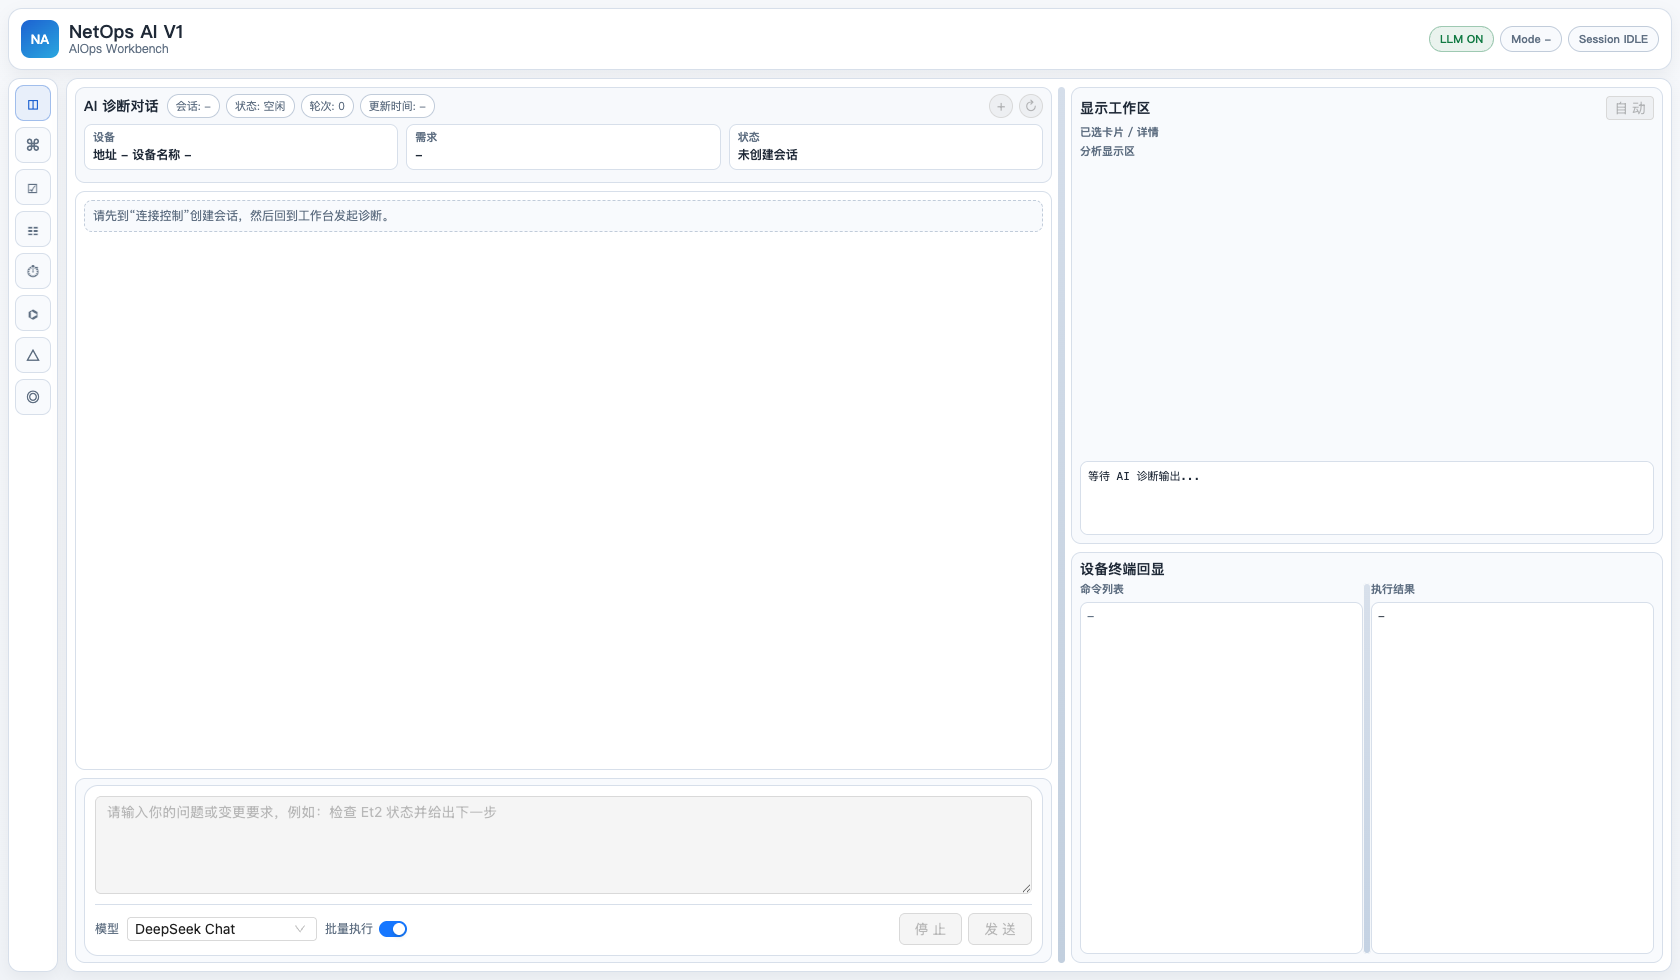
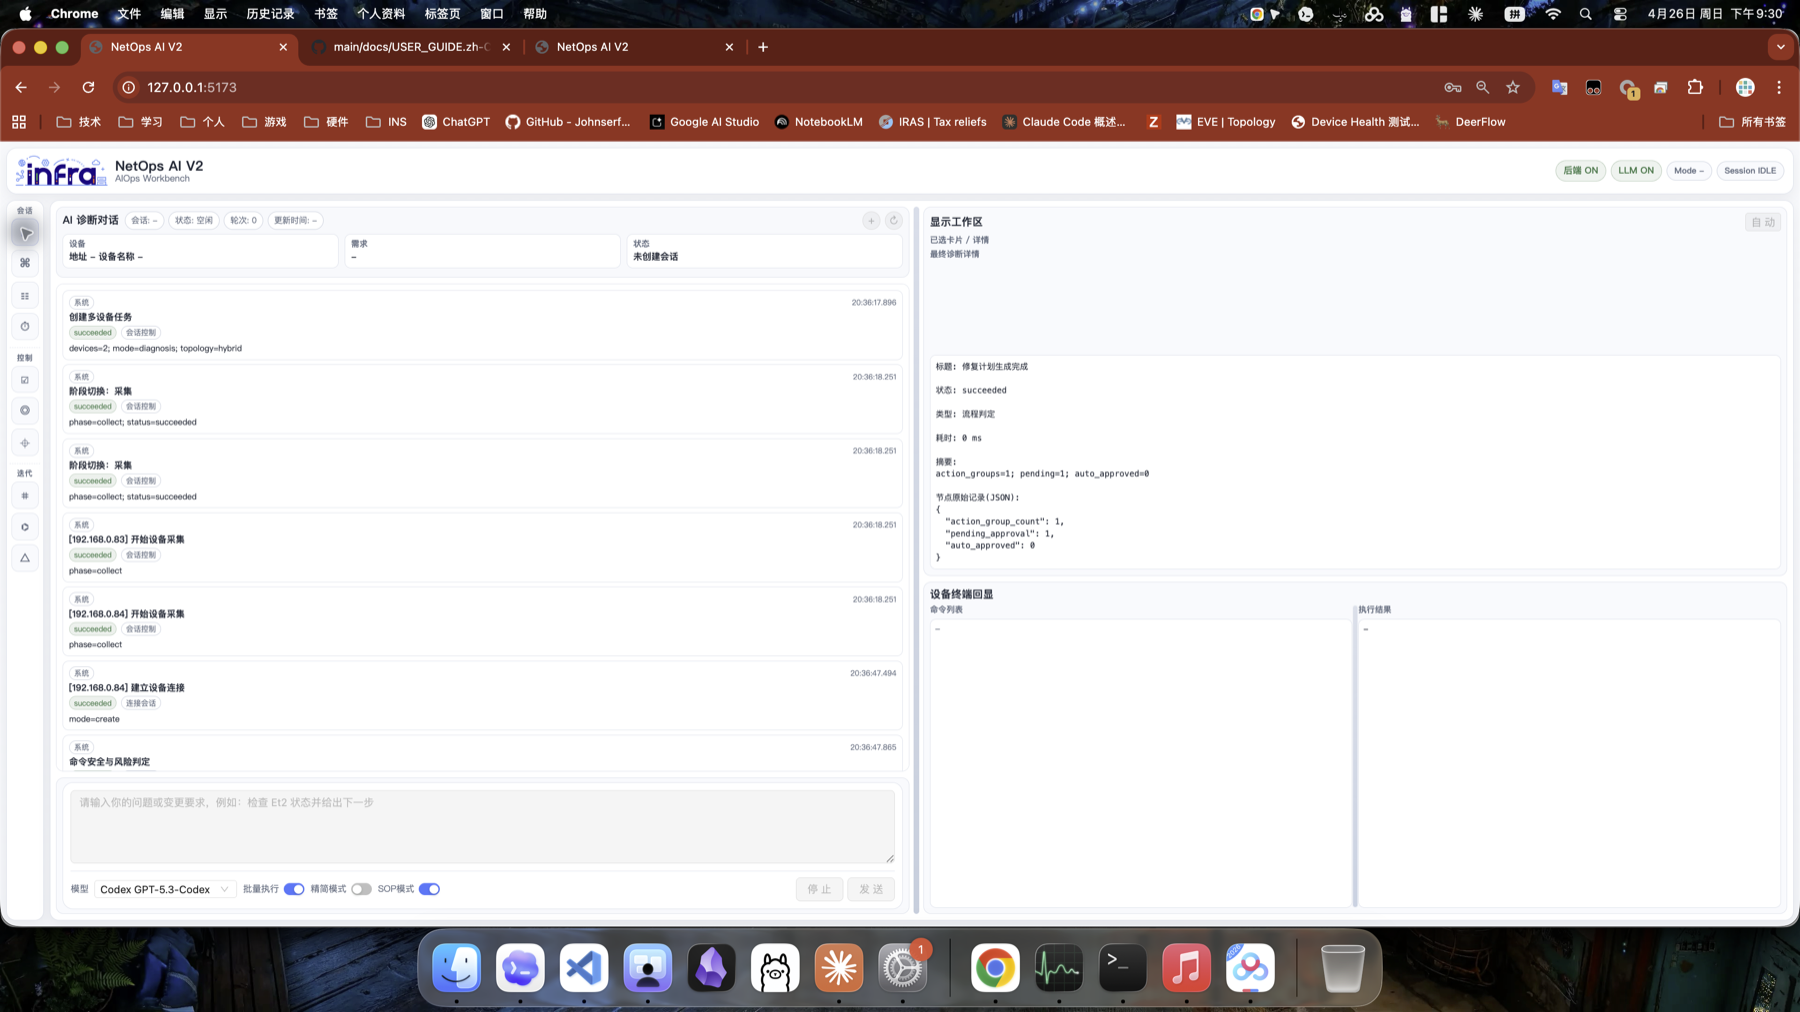
Align the user guide with the V2 workbench
The local workbench has moved beyond the old V1 walkthrough, so this records the current UI entry points, continuation behavior, approval flow, trace review, SOP boundaries, and third-party key guidance with fresh screenshots. The third-party key screenshot is intentionally redacted before publishing.

Constraint: User requested publishing this guide to jluzhangwei/main under AIOPS/netops-ai-v2-20260426

Rejected: Text-only update | the old screenshots described a different UI and would keep the guide misleading

Confidence: high

Scope-risk: narrow

Directive: Keep public guide screenshots redacted, especially third-party key and credential examples

Tested: git diff --check -- netops-ai-v1/docs/USER_GUIDE.zh-CN.md

Tested: Markdown image link check reported image_links=10 missing=[]

Tested: Screenshot metadata check confirmed all guide images are PNG 1800x1012

Not-tested: GitHub rendered Markdown preview after push

diff --git a/docs/USER_GUIDE.zh-CN.md b/docs/USER_GUIDE.zh-CN.md
@@ -1,108 +1,269 @@
-# NetOps AI V1 用户说明书（图文）
+# NetOps AI V2 用户指南（中文图文版）
 
-本文面向一线运维与值班工程师，帮助你快速上手 NetOps AI V1 的日常诊断、查询和配置协作。
+本文面向一线网络运维、值班工程师和平台管理员，说明如何通过本地 Web 工作台完成设备连接、AI 诊断、追加问题、命令审批、历史复盘和第三方接入管理。
 
-## 1. 页面总览
+截图来自本机 `http://127.0.0.1:5173/` 的 NetOps AI V2 页面。截图中的设备地址、会话 ID、问题文本仅作为本地测试样例；公开发布文档前，请确认截图中没有真实敏感信息。
 
-![工作台总览](./images/user-manual/01-workbench.png)
+## 1. 打开与登录
 
-- 左侧图标栏：页面导航。
-- 中间区域：AI 诊断对话、执行卡片、用户输入。
-- 右侧区域：命令回显、结果细节。
+1. 启动后端和前端服务。
+2. 在浏览器打开 `http://127.0.0.1:5173/`。
+3. 页面右上角应显示 `后端 ON` 和 `LLM ON`。
+4. 当前本地工作台没有单独的账号登录页，内置诊断工作台和会话历史通过受信任 UI 通道访问统一 Run API。
+5. “第三方 Key 服务”只用于给外部系统、脚本或测试客户端创建 API Key，不是本地工作台登录入口。
 
-## 2. 首次使用（推荐顺序）
+![诊断工作台总览](./images/user-manual/01-workbench.png)
 
-1. 进入“连接控制”，填写设备地址、用户名、密码。
-2. 选择任务模式：诊断排障 / 状态查询 / 配置变更。
-3. 选择自动化等级：极低风险 / 中风险可执行 / 高风险可执行。
-4. 返回“诊断工作台”，输入需求并发送。
-5. 在执行卡片与右侧回显区查看全过程证据。
+页面顶部状态区用于确认平台是否可用：
 
-## 3. 关键页面说明
+- `后端 ON`：前端可以访问后端 API。
+- `LLM ON`：当前模型可用。
+- `当前模型`：展示当前生效的 provider 和模型。
+- `Mode / Session`：展示当前任务模式和会话状态。
 
-### 3.1 连接控制
+左侧导航分为三组：
+
+- `会话`：诊断工作台、连接控制、会话历史、流程追踪。
+- `控制`：命令执行控制、AI 设置、第三方 Key 服务。
+- `迭代`：SOP 档案库、命令执行纠正、Lab 对抗。
+
+## 2. 推荐操作流程
+
+1. 进入“连接控制”，选择自动化等级和任务模式。
+2. 填写设备地址、用户名、密码；一个地址表示单设备，多地址表示多设备协同。
+3. 点击“创建会话”。
+4. 回到“诊断工作台”，输入当前问题或变更需求。
+5. 观察 AI 对话、执行卡片、显示工作区和设备终端回显。
+6. 如果 AI 需要执行配置变更，先查看计划和待审批命令，再决定是否批准。
+7. 诊断完成后，如果要继续追问，直接在同一个工作台会话继续输入新问题，不要重新创建任务。
+8. 需要复盘时，进入“流程追踪”或“会话历史”查看证据链、命令、耗时和最终结论。
+
+## 3. 连接控制
 
 ![连接控制](./images/user-manual/02-control.png)
 
-用途：创建会话、设置设备连接参数、选择任务模式与自动化等级。
+“连接控制”是创建单设备或多设备任务的统一入口。
 
-要点：
-- 默认建议先使用“诊断排障 + 中风险可执行”。
-- 配置变更前确认账号权限与回滚方案。
+### 3.1 自动化等级
 
-### 3.2 命令执行控制
+- `极低风险`：通常只允许只读查询，适合首次接入或高敏感环境。
+- `中风险可执行`：自动执行低/中风险命令，高风险命令需要人工确认，推荐日常排障使用。
+- `高风险可执行`：非阻断命令可自动执行，仅建议在受控实验或明确授权场景使用。
+
+### 3.2 任务模式
+
+- `状态查询`：适合询问设备状态、接口状态、路由表等只读问题。
+- `诊断排障`：默认模式，适合故障定位，AI 会基于证据逐步收敛。
+- `配置变更`：涉及修复和配置下发，系统应进入计划和审批流程。
+
+### 3.3 设备连接
+
+- 单设备：在“设备地址”填写一个 IP 或主机名。
+- 多设备：用逗号、空格或换行输入多个地址。
+- 跳板机：需要通过堡垒机或中间机登录时再开启。
+- 创建会话后，右侧“连接状态”和“近期多设备协同”会显示当前任务状态。
+
+## 4. 诊断工作台
+
+诊断工作台是日常使用频率最高的页面。左侧是 AI 诊断对话和事件流，右侧是当前选中卡片的详情、命令列表和设备回显。
+
+### 4.1 提问方式
+
+推荐直接描述目标，不要把历史结论复制回去。例如：
+
+```text
+两台设备 LLDP 能发现对方，但是 OSPF 起不来，帮我看看配置
+```
+
+如果是追加问题，继续在同一会话输入新需求：
+
+```text
+帮我给这两个互联接口选择合适地址并完成配置，让 OSPF up 起来
+```
+
+### 4.2 追加问题的上下文规则
+
+同一会话中继续追问时，系统应保留历史事实，例如已成功采集的命令结果、设备基线、邻居关系和证据摘要；上一轮最终结论只作为历史展示，不应作为当前问题继续灌给模型。
+
+正常续问时：
+
+- `run_id/session_id` 应保持不变。
+- 当前问题应更新为最新用户输入。
+- 历史用户问题和事实证据应保留。
+- 已确认且仍有效的只读命令不应无意义重复执行。
+- 如果用户点击停止、连接失效、设备集合变化、凭据变化或会话上下文丢失，系统可能需要重新连接或重新采集事实。
+
+### 4.3 配置变更与审批
+
+当用户只是提问或要求分析时，系统应给出“查询结果”或“诊断结论”。只有在用户明确要求修复、配置、变更或执行动作，并且系统生成待审批命令后，才进入配置计划和审批链路。
+
+如果看到“待审批命令组”，请先检查：
+
+- 命令是否只作用在目标设备和目标接口上。
+- 是否有回滚方案或验证命令。
+- 是否符合当前自动化等级。
+- 是否确实是用户本轮问题要求的动作。
+
+## 5. 命令执行控制
 
 ![命令执行控制](./images/user-manual/03-command-policy.png)
 
-用途：维护命令阻断、放行与风险分级规则。
+该页面用于管理命令阻断、放行和风险分级策略。它负责“哪些命令可以被系统执行”，不负责替 AI 做诊断结论。
 
-要点：
-- 阻断规则优先级最高。
-- 未命中放行且命中高风险时，会进入确认流程。
+判定顺序：
 
-### 3.3 会话历史
+1. 先看阻断规则和硬阻断。
+2. 再按自动化等级判断是否可执行。
+3. 最后由放行规则覆盖部分确认策略。
+
+常见用途：
+
+- 禁止明显危险命令，例如重启、清空、删除、关闭关键接口。
+- 将某些命令列为高风险，要求人工确认。
+- 将环境中明确安全的只读命令加入放行规则。
+- 导出或导入 JSON 规则，方便团队统一治理。
+
+## 6. 会话历史
 
 ![会话历史](./images/user-manual/04-sessions.png)
 
-用途：回看与恢复历史会话。
+会话历史同时展示单设备会话和多设备协同任务。它用于恢复、复盘和提炼 SOP。
 
-交互：
-- 单击：选择会话并查看右侧快照。
-- 双击：进入并恢复该会话继续对话。
+关键区域：
 
-### 3.4 流程追踪
+- 左侧列表：历史任务、模式、自动化等级、设备数量、用户问题和创建时间。
+- `提取 SOP`：从历史会话中生成 SOP 草稿。
+- 右侧快照：显示设备、状态、消息数、命令数、证据数、模型记录、SOP 命中情况、用户问题和最终结论。
+
+恢复会话时，优先确认它是否仍是你要继续提问的那条 run。追加问题应继续走当前 run，不应静默新建任务。
+
+## 7. 流程追踪
 
 ![流程追踪](./images/user-manual/05-service-trace.png)
 
-用途：按步骤查看完整执行链路和耗时。
+流程追踪用于看清一次任务从用户输入到最终输出的完整链路，尤其适合排查“为什么慢”“为什么执行了某条命令”“为什么进入审批”等问题。
 
-能力：
-- 支持前序/后续跳转。
-- 支持 Play 回放，按步骤时间自动演示全过程。
-- 点击步骤后，步骤明细会自动滚动到对应行。
+你可以重点查看：
 
-### 3.5 学习规则（版本级）
+- `步骤总数` 和 `总耗时`：判断任务整体复杂度。
+- `最慢步骤`：定位慢在 LLM、设备命令还是后端处理。
+- 泳道：用户输入、上下文构建、提交给 AI、AI 反馈、规划决策、策略判定、会话控制、设备执行、总结输出。
+- 节点详情：查看某一步的摘要、耗时和原始 JSON。
+- 步骤明细：逐条查看命令执行、策略判定和模型回复。
 
-![学习规则](./images/user-manual/06-learning.png)
+当追加问题效率不好时，优先在这里确认是否重复执行了已确认命令、是否重新进入了完整采集链路、是否因为连接或上下文丢失导致重采。
 
-用途：维护失败阻断 / 替代改写规则，减少重复试错。
+## 8. 命令执行纠正
 
-要点：
-- 规则作用域为版本指纹。
-- 支持手动编辑与自动学习来源区分。
+![命令执行纠正](./images/user-manual/06-learning.png)
 
-### 3.6 AI 设置
+命令执行纠正用于维护版本级的失败阻断或替代改写规则。它属于执行前能力修正，不等同于 SOP，也不应该替代 AI 的工程判断。
+
+适用场景：
+
+- 某个厂商或版本不支持某条命令。
+- 某条命令在当前设备版本上反复失败。
+- 已知存在等价替代命令。
+
+使用原则：
+
+- 优先记录“命令兼容性”问题，不要把具体业务结论写成规则。
+- 规则应尽量绑定版本指纹，避免跨厂商、跨版本误伤。
+- 删除或停用规则前，先确认是否有历史命中记录依赖它。
+
+## 9. AI 设置
 
 ![AI 设置](./images/user-manual/07-ai-settings.png)
 
-用途：配置 API Key、模型、故障切换策略与提示词展示。
+AI 设置页面集中管理当前模型、provider、API Key 状态、自动切换和提示词策略。
 
-要点：
-- API Key 默认保存到服务器。
-- 可手动删除 Key；删除后模型不可用。
+当前页面常见字段：
 
-## 4. 标准操作流程（值班推荐）
+- `状态`：模型服务是否启用。
+- `当前厂商`：例如 Codex CLI、DeepSeek、NVIDIA。
+- `主模型` 和 `当前生效模型`：确认实际使用的模型。
+- `Codex 登录`：如果复用本机 `~/.codex/auth.json`，通常无需填写 API Key。
+- `自动切换`：模型异常时切换到候选模型。
+- `批量执行提示`：提示 AI 优先输出可批量执行的命令组。
+- `提示词与策略`：只读展示系统当前可暴露的提示词模板。
 
-1. 创建会话并验证设备可达。
-2. 在工作台输入目标（例如：检查端口/检查协议/执行修复）。
-3. 观察 AI 卡片与右侧回显，确认证据是否充分。
-4. 涉及变更时进行确认或使用自动化策略。
-5. 在流程追踪页复盘耗时和关键判定点。
-6. 在会话历史页沉淀可复用案例。
+如果 AI 不响应或模型不可用，先检查这里的状态，再去看后端日志。
 
-## 5. 常见问题
+## 10. 第三方 Key 服务
 
-- Q: 为什么有命令需要确认？
-  - A: 命令命中高风险策略或未命中放行策略时，会进入确认流程。
+![第三方 Key 服务](./images/user-manual/08-third-party-keys.png)
 
-- Q: 为什么刷新后看不到刚才会话？
-  - A: 请到“会话历史”刷新并恢复；系统已支持历史会话快照与恢复。
+第三方 Key 服务用于给外部系统、自动化脚本或测试客户端分配 API Key。完整 Key 只会在创建或轮换后展示一次。
 
-- Q: 为什么 AI 无法给出结论？
-  - A: 请先检查 AI 设置中的 API Key、模型联机状态与错误信息。
+使用建议：
 
-## 6. 发布建议（GitHub）
+- 按系统或团队分配独立 Key。
+- 使用最小权限模板，例如 viewer、operator、approver、auditor、repair_operator。
+- 正式环境建议使用固定 Key 并定期轮换。
+- 不要在截图、聊天、提交记录或公开文档中暴露完整 Key。
+- 删除、轮换或禁用 Key 会影响依赖它的第三方调用。
 
-- 将本说明保留在：`docs/USER_GUIDE.zh-CN.md`
-- 截图资源保留在：`docs/images/user-manual/`
-- 在 `README.md` 添加“用户手册”入口，方便团队快速访问。
+内置工作台不需要在这里手动配置 Key。它通过受信任 UI 通道访问统一 Run API。
+
+## 11. SOP 档案库
+
+![SOP 档案库](./images/user-manual/09-sop-library.png)
+
+SOP 档案库是旁挂知识库，不直接插入主线诊断 UI。历史会话可以手动触发“AI 提取 SOP”，草稿经人工审核发布后，才会作为 AI 的可选参考参与匹配。
+
+关键原则：
+
+- SOP 是参考，不是自动执行脚本。
+- SOP 不替代 AI 对当前证据的判断。
+- SOP 草稿需要人工审核，确认是否具备通用性。
+- 触发词、适用前提和不适用条件要写成问题类型，不要写成单次现场对象。
+- 建议最小命令组应帮助 AI 少走弯路，但不能把结论硬编码进系统。
+
+## 12. Lab 对抗
+
+![Lab 对抗](./images/user-manual/10-lab.png)
+
+Lab 对抗页面当前是预留能力，用于后续模拟故障注入、AI 对抗回放、案例晋级、评分和回滚评估。
+
+当前可把它理解为未来测试工作台的入口。正式使用前，应以“诊断工作台、流程追踪、会话历史、SOP 档案库”为主。
+
+## 13. 常见问题
+
+### Q1：为什么没有登录弹窗？
+
+当前本地 UI 是受信任工作台访问模式，没有单独账号密码登录页。只要前端能打开、右上角显示 `后端 ON` 和 `LLM ON`，就可以进入工作台。第三方 Key 页面是给外部客户端使用的，不是本地 UI 登录页。
+
+### Q2：为什么追加问题时不能新建 run？
+
+追加问题的设计目标是像和同一个网络工程师继续对话：保留历史事实和证据，更新当前问题，并让旧结论退出当前活跃态。如果新建 run，历史事实会断开，系统容易重新采集、重复命令或被旧结论带偏。
+
+### Q3：什么时候允许重复执行命令？
+
+如果同一 run 的上下文仍连续，已经成功采集且仍有效的事实不应无意义重复执行。以下情况可能需要重新执行：
+
+- 用户点击停止或取消。
+- 设备连接中断且上下文无法继续。
+- 设备集合发生变化。
+- 凭据或登录权限发生变化。
+- 用户明确要求重新验证。
+- 上一轮命令失败、输出不完整或证据已经过期。
+
+### Q4：为什么命令需要审批？
+
+命令命中高风险策略、未命中放行策略，或当前自动化等级不允许自动执行时，会进入人工审批。配置变更必须特别谨慎，审批前要确认目标设备、接口、命令、验证和回滚。
+
+### Q5：为什么 AI 给不出结论？
+
+常见原因包括模型不可用、设备连接失败、命令被策略阻断、证据不足或用户问题过于模糊。建议按顺序检查 AI 设置、连接控制、命令执行控制和流程追踪。
+
+### Q6：如何判断系统慢在哪里？
+
+进入“流程追踪”，先看 `最慢步骤`。如果慢在 LLM 规划或 RCA，重点看提交给 AI 的上下文是否过大；如果慢在设备执行，重点看命令耗时、连接重试和设备响应；如果慢在策略判定，检查规则数量和命中情况。
+
+## 14. 安全与发布注意事项
+
+- 不要把真实密码、完整 API Key、生产设备敏感配置放进截图。
+- 配置变更前必须保留验证命令和回滚思路。
+- 命令执行控制只做安全边界，不应把业务结论硬编码到规则里。
+- SOP 应沉淀通用经验，不应把一次现场的端口、地址、根因直接写死。
+- 发布到 GitHub 前建议再检查 `docs/images/user-manual/` 下所有图片。
